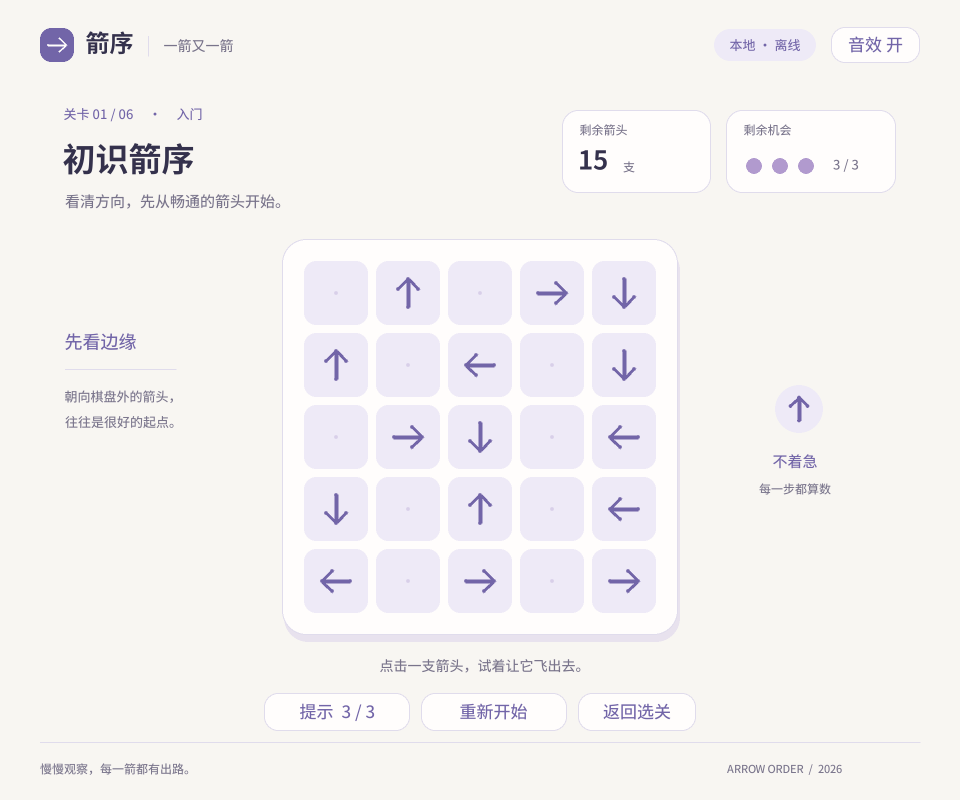
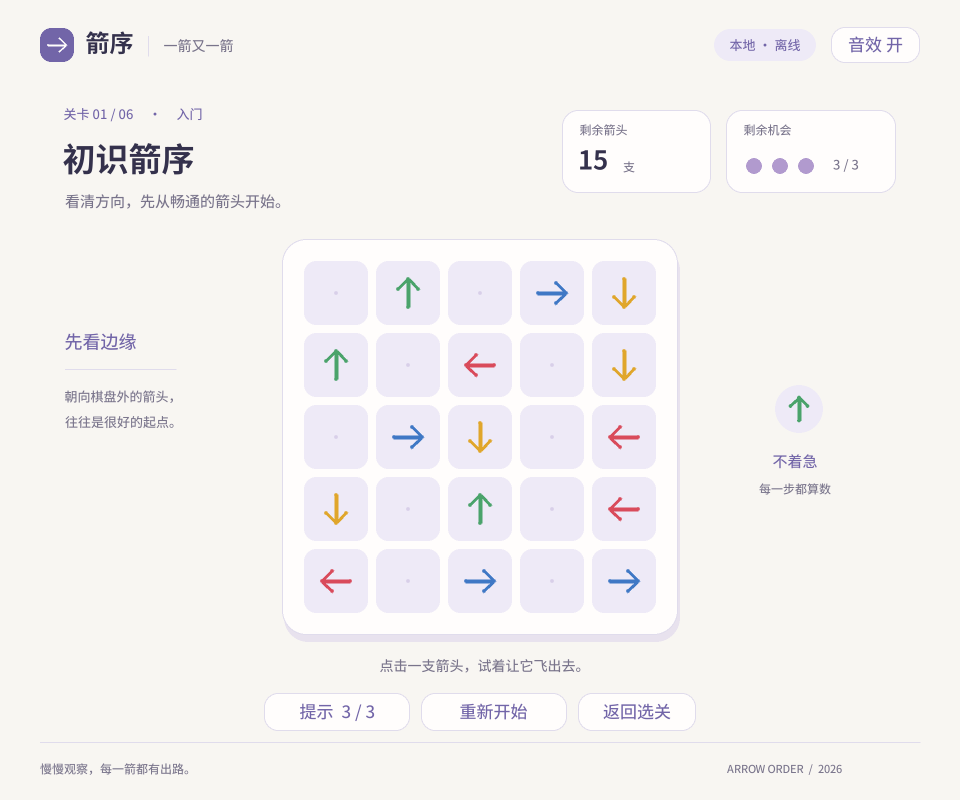
为四个方向加入彩色箭头图标

diff --git a/game.py b/game.py
@@ -19,7 +19,7 @@ import pygame
 
 from arrowgame.levels import LEVELS
 from arrowgame.effects import DangerVignette, HEARTBEAT_PERIOD, HEARTBEAT_PULSES
-from arrowgame.preview_ui import Painter, BG, INK, MUTED, ACCENT, PALE, LINE, WHITE, ORANGE, RED
+from arrowgame.preview_ui import Painter, BG, INK, MUTED, ACCENT, PALE, LINE, WHITE, ORANGE, RED, DIRECTION_COLORS
 from arrowgame.rules import can_exit, first_blocker
 from arrowgame.scoring import LevelTimer, award_stars, better_record, clean_record, format_time
 from arrowgame.endless import generate_level
@@ -418,7 +418,8 @@ class Game:
         if self.animation and self.animation["kind"] == "fly":
             rows[self.animation["row"]][self.animation["col"]] = "."
         p.board(x, y, cell, rows=rows, highlight=None)
-        for position, color in ((highlight, ORANGE if self.hint_active else ACCENT),):
+        highlight_color = ORANGE if self.hint_active else DIRECTION_COLORS.get(self.board[highlight[0]][highlight[1]], ACCENT) if highlight else ACCENT
+        for position, color in ((highlight, highlight_color),):
             if position and self.board[position[0]][position[1]] != "." and not self.animation:
                 r, c = position
                 p.box((x+c*cell+4, y+r*cell+4, cell-8, cell-8), "#FAEEDD" if self.hint_active else "#E5DFF4", 12, color, 2)
@@ -441,7 +442,7 @@ class Game:
             distance = {"U":(a["row"]+1)*cell+32,"D":(len(rows)-a["row"])*cell+32,"L":(a["col"]+1)*cell+32,"R":(len(rows)-a["col"])*cell+32}[a["direction"]]
             cx = x + a["col"] * cell + cell / 2 + dc * progress * distance
             cy = y + a["row"] * cell + cell / 2 + dr * progress * distance
-            p.arrow((cx, cy), a["direction"], cell * .39, ACCENT, 4)
+            p.arrow((cx, cy), a["direction"], cell * .39, DIRECTION_COLORS.get(a["direction"], ACCENT), 4)
         p.text(self.feedback, 480, 658, 14, self.feedback_color, center=True)
         self.button(f"提示  {self.hints} / 3", (264, 693, 146, 38), "hint", enabled=self.hints > 0 and self.animation is None and not self.hint_active)
         self.button("重新开始", (421, 693, 146, 38), "restart")

diff --git a/arrowgame/preview_ui.py b/arrowgame/preview_ui.py
@@ -21,6 +21,8 @@ LINE = "#E0DCEC"
 WHITE = "#FFFDFC"
 ORANGE = "#B67A39"
 RED = "#B95770"
+# Direction colors: left red, down yellow, right blue, and up green.
+DIRECTION_COLORS = {"L": "#D94B5B", "D": "#E0A62B", "R": "#3F78C5", "U": "#4AA36B"}
 DEMO_BOARD = (".U.RD", "U.L.D", ".RD.L", "D.U.L", "L.R.R")
 
 
@@ -88,7 +90,9 @@ class Painter:
         self.canvas.blit(glyph, (px, round(y * 2)))
         self.text_bounds.append((str(value), pygame.Rect(px // 2, int(y), math.ceil(glyph.get_width() / 2), math.ceil(glyph.get_height() / 2))))
 
-    def arrow(self, center, direction="R", size=24, color=ACCENT, width=4):
+    def arrow(self, center, direction="R", size=24, color=None, width=4):
+        if color is None:
+            color = DIRECTION_COLORS[direction]
         dr, dc = {"U": (-1, 0), "D": (1, 0), "L": (0, -1), "R": (0, 1)}[direction]
         x, y = center
         length = size / 2
@@ -145,7 +149,7 @@ class Painter:
                 if selected or is_blocker:
                     self.box((tx + 4, ty + 4, cell - 8, cell - 8), fill, 12, RED if collision else ORANGE, 2)
                 if direction != ".":
-                    color = RED if selected and collision else ORANGE if selected else ACCENT
+                    color = RED if selected and collision else ORANGE if selected else DIRECTION_COLORS[direction]
                     shift = 5 if selected and collision else 0
                     self.arrow((tx + cell / 2 + shift, ty + cell / 2), direction, cell * .39, color, 4 if cell > 50 else 3)
                 else:

diff --git a/README.md b/README.md
@@ -8,6 +8,7 @@
 - 每关最多 3 颗星：成功通关、剩余至少 2 次机会、在目标时间内完成分别获得 1 星。
 - 柔和的原创循环背景音乐《安静的午后》、操作音效和胜利音效，音乐与音效可以分别静音。
 - 失败提示、最后一次机会提示、红色残血视野边缘和渐入渐出的表情图片动画。
+- 四种方向使用不同颜色：左红、下黄、右蓝、上绿，便于快速识别箭头方向。
 - 无尽模式：随机生成可解棋盘，难度参考普通关卡 1～6，不评价星级。
 - 无尽模式累计通关 3 次后显示特殊 CG，包括用户提供的图片、GIF 和活动文案。
 - 首页右侧提供放大的 GitHub 图标按钮，点击后打开项目主页：<https://github.com/ddxww/arrow-order>。
